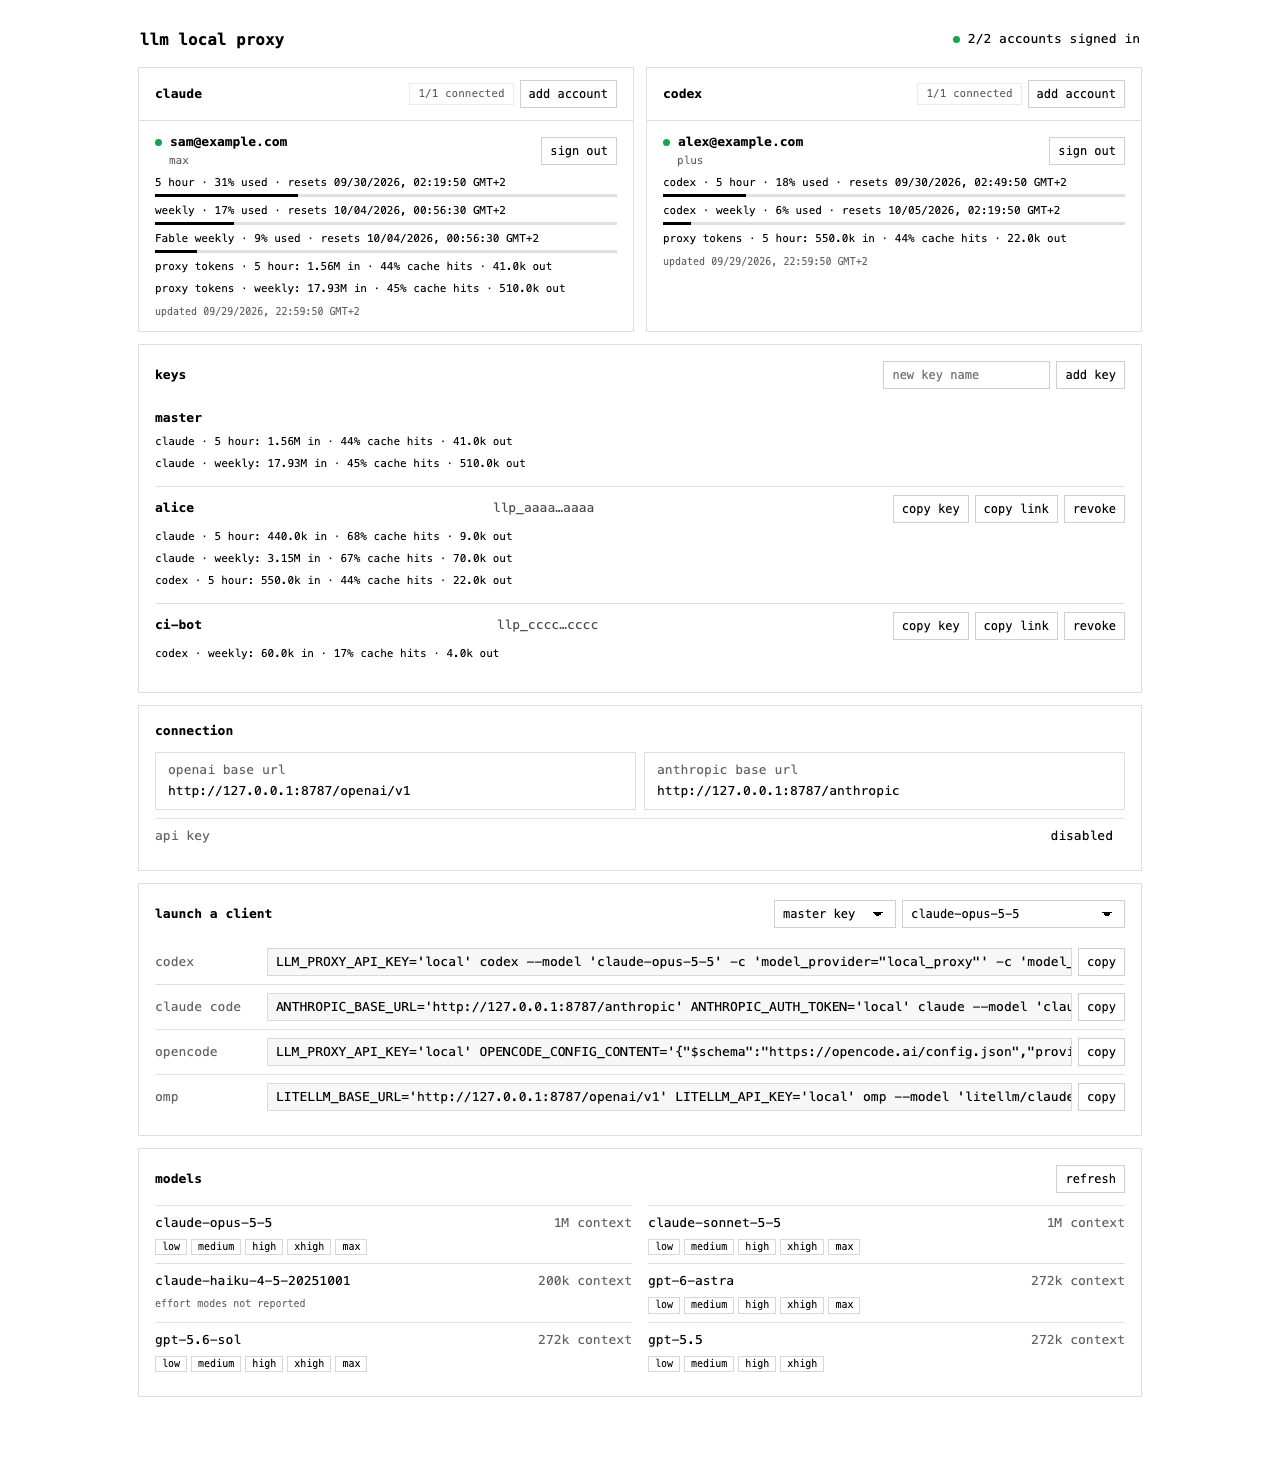
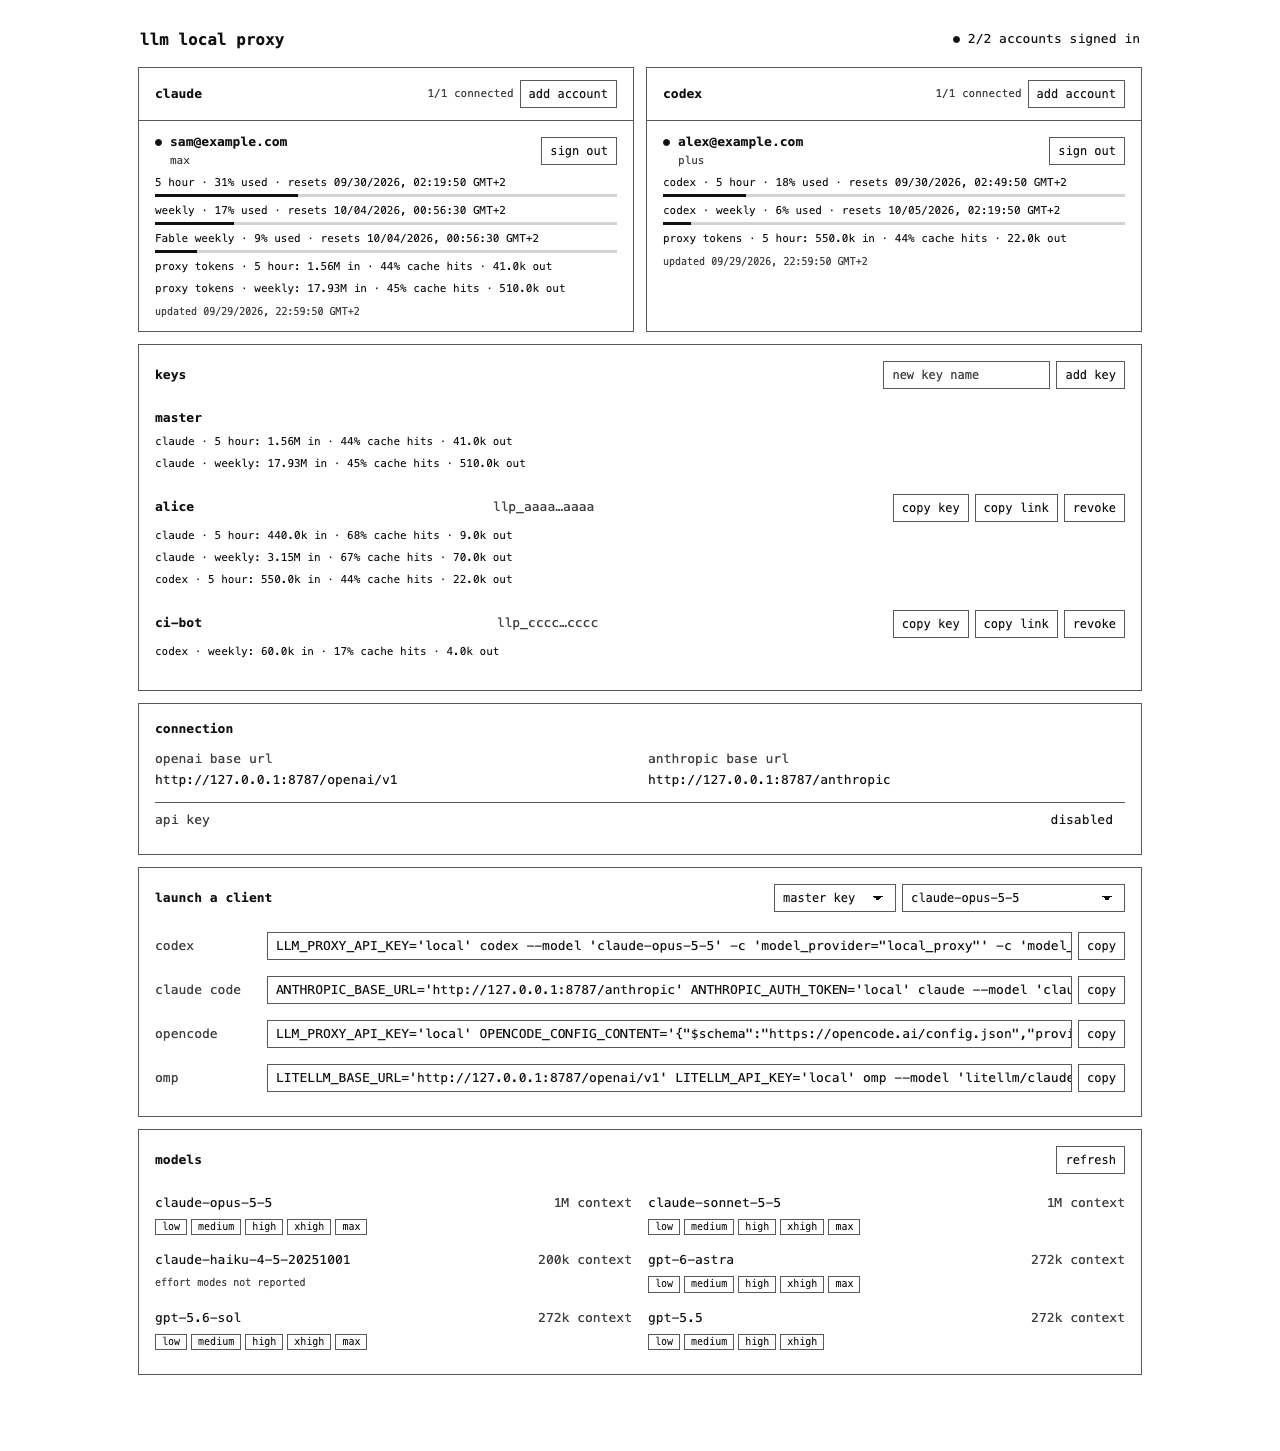
style: high-contrast flat palette, inverted button hover, fewer dividers

diff --git a/src/http/dashboard.html b/src/http/dashboard.html
@@ -24,40 +24,45 @@
     --control-height: 28px;
     --radius: 0;
 
-    --line: #8884;
-    --line-strong: #8886;
-    --line-hover: #888;
-    --fill: #8881;
-    --fill-hover: #8882;
-    --fill-active: #8883;
-    --muted-opacity: .62;
-    --green: #16a34a;
-    --focus: #2563eb;
+    /* Two colours plus one accent; every text and border pair is high contrast. */
+    --fg: #111;
+    --bg: #fff;
+    --muted: #404040;
+    --border: #595959;
+    --track: #d4d4d4;
+    --accent: #0a4fc4;
   }
   @media (prefers-color-scheme: dark) {
-    :root { --focus: #60a5fa; }
+    :root {
+      --fg: #f2f2f2;
+      --bg: #111;
+      --muted: #c4c4c4;
+      --border: #a3a3a3;
+      --track: #404040;
+      --accent: #8ab4ff;
+      }
   }
 
   * { box-sizing: border-box; }
   [hidden] { display: none !important; }
   body.user .master, body:not(.user) .user-only { display: none !important; }
 
-  body { max-width: 1040px; margin: 28px auto; padding: 0 18px 48px; line-height: 1.45; }
+  body { color: var(--fg); background: var(--bg); max-width: 1040px; margin: 28px auto; padding: 0 18px 48px; line-height: 1.45; }
   h1 { font-size: var(--text-lg); margin: 0; }
   h2 { font-size: 13px; margin: 0; }
   code { font: inherit; word-break: break-all; }
-  .muted { opacity: var(--muted-opacity); }
+  .muted { color: var(--muted); }
 
   /* Layout */
   header { display: flex; align-items: center; justify-content: space-between; margin-bottom: var(--space-5); padding: 0 2px; }
   main { display: block; }
-  .panel, .provider { border: 1px solid var(--line); border-radius: var(--radius); overflow: hidden; }
+  .panel, .provider { border: 1px solid var(--border); border-radius: var(--radius); overflow: hidden; }
   .panel { margin-top: var(--space-4); padding: var(--space-5); }
   .section-head, .provider-head, .account-head { display: flex; align-items: center; justify-content: space-between; gap: var(--space-4); }
   .section-head { flex-wrap: wrap; margin-bottom: var(--space-4); }
   .controls, .button-group { display: flex; align-items: center; gap: var(--space-2); }
   .controls { flex-wrap: wrap; justify-content: flex-end; min-width: 0; }
-  .row { display: flex; gap: var(--space-4); justify-content: space-between; border-top: 1px solid var(--line); padding: var(--space-3) 0; }
+  .row { display: flex; gap: var(--space-4); justify-content: space-between; border-top: 1px solid var(--border); padding: var(--space-3) 0; }
 
   /* Controls: buttons, selects and text inputs share height, border, padding and font. */
   button, select, input {
@@ -66,17 +71,18 @@
     font: inherit;
     font-size: var(--text-md);
     line-height: 1;
-    color: inherit;
-    background-color: transparent;
-    border: 1px solid var(--line-strong);
+    color: var(--fg);
+    background-color: var(--bg);
+    border: 1px solid var(--border);
     border-radius: var(--radius);
   }
   button { flex: none; cursor: pointer; white-space: nowrap; }
-  button:hover, select:hover { background-color: var(--fill-hover); border-color: var(--line-hover); }
-  button:active { background-color: var(--fill-active); }
-  button:disabled, select:disabled { opacity: .5; cursor: default; background-color: transparent; border-color: var(--line-strong); }
-  button:focus-visible, select:focus-visible, input:focus-visible { outline: 2px solid var(--focus); outline-offset: 1px; }
+  button:hover, button:active { color: var(--bg); background-color: var(--fg); border-color: var(--fg); }
+  select:hover { border-color: var(--fg); }
+  button:disabled, select:disabled { opacity: .5; cursor: default; color: var(--fg); background-color: var(--bg); border-color: var(--border); }
+  button:focus-visible, select:focus-visible, input:focus-visible { outline: 2px solid var(--accent); outline-offset: 2px; }
   input { flex: 1; min-width: 0; }
+  input::placeholder { color: var(--muted); opacity: 1; }
   select {
     appearance: none;
     max-width: 100%;
@@ -84,7 +90,7 @@
     padding-right: calc(var(--space-3) * 4);
     cursor: pointer;
     text-overflow: ellipsis;
-    /* Chevron drawn with currentColor, so it follows the text colour in light and dark. */
+    /* The page's CSP forbids data: images, so the chevron is drawn with currentColor gradients. */
     background-image:
       linear-gradient(45deg, transparent 50%, currentColor 50%),
       linear-gradient(135deg, currentColor 50%, transparent 50%);
@@ -92,42 +98,42 @@
     background-position: calc(100% - 17px) 50%, calc(100% - 12px) 50%;
     background-repeat: no-repeat;
   }
-  select option { color: CanvasText; background: Canvas; }
+  select option { color: var(--fg); background: var(--bg); }
   #command-key { max-width: 14em; }
   #command-model { max-width: 22em; }
 
   /* Scrollable command lines: thin scrollbar so it does not dominate the box. */
-  .command code, .login-url { scrollbar-width: thin; scrollbar-color: var(--line-strong) transparent; }
+  .command code, .login-url { scrollbar-width: thin; scrollbar-color: var(--border) var(--bg); }
   .command code::-webkit-scrollbar { height: 6px; }
-  .command code::-webkit-scrollbar-thumb { background: var(--line-strong); }
+  .command code::-webkit-scrollbar-thumb { background: var(--border); }
 
   /* Status */
-  .dot, .account-dot { display: inline-block; width: 7px; height: 7px; border-radius: 50%; background: #888; margin-right: var(--space-3); }
-  .dot.on, .account-slot.signed .account-dot { background: var(--green); }
-  .spin { display: none; width: 9px; height: 9px; border: 2px solid #8885; border-top-color: currentColor; border-radius: 50%; margin-right: var(--space-3); animation: spin .7s linear infinite; }
+  .dot, .account-dot { display: inline-block; width: 7px; height: 7px; border-radius: 50%; background: transparent; border: 1px solid var(--fg); margin-right: var(--space-3); }
+  .dot.on, .account-slot.signed .account-dot { background: var(--fg); }
+  .spin { display: none; width: 9px; height: 9px; border: 2px solid var(--track); border-top-color: currentColor; border-radius: 50%; margin-right: var(--space-3); animation: spin .7s linear infinite; }
   body.loading .spin { display: inline-block; }
   body.loading .dot { display: none; }
 
   /* Providers and accounts */
   #providers { display: grid; grid-template-columns: repeat(2, minmax(0, 1fr)); gap: var(--space-4); }
   .provider { display: flex; flex-direction: column; }
-  .provider-head { padding: var(--space-4) var(--space-5); border-bottom: 1px solid var(--line); }
+  .provider-head { padding: var(--space-4) var(--space-5); border-bottom: 1px solid var(--border); }
   .provider-controls, .account-controls { display: flex; align-items: center; gap: var(--space-2); }
-  .summary { font-size: var(--text-sm); border: 1px solid var(--line); padding: 2px var(--space-3); white-space: nowrap; }
+  .summary { font-size: var(--text-sm); white-space: nowrap; }
   .accounts { display: flex; flex: 1; flex-direction: column; }
   .account-slot { padding: var(--space-4) var(--space-5); }
-  .account-slot + .account-slot { border-top: 1px solid var(--line); }
+  .account-slot + .account-slot { border-top: 1px solid var(--border); }
   .account-slot:last-child { flex: 1; }
   .account-slot:not(.signed):last-child { display: flex; flex-direction: column; }
   .account-slot:not(.signed):last-child > .actions { margin-top: auto; }
   .identity { min-width: 0; }
   .account-name { display: block; overflow: hidden; text-overflow: ellipsis; white-space: nowrap; }
-  .account-meta { display: block; margin: 1px 0 0 14px; font-size: var(--text-sm); opacity: var(--muted-opacity); }
+  .account-meta { display: block; margin: 1px 0 0 15px; font-size: var(--text-sm); color: var(--muted); }
   .actions { display: flex; align-items: center; justify-content: space-between; gap: var(--space-3); margin-top: var(--space-3); }
   .stamp { font-size: var(--text-xs); }
   .usage:empty { display: none; }
   .limit { margin: var(--space-2) 0; font-size: var(--text-sm); }
-  .bar { height: 3px; background: var(--line); margin-top: 3px; }
+  .bar { height: 3px; background: var(--track); margin-top: 3px; }
   .bar i { display: block; height: 100%; background: currentColor; }
   .login { margin-top: var(--space-3); }
   .login .row { align-items: flex-start; }
@@ -139,22 +145,21 @@
 
   /* Keys */
   .keys-add { display: flex; gap: var(--space-2); }
-  .key-item { border-top: 1px solid var(--line); padding: var(--space-3) 0; }
-  .key-item:first-child { border-top: 0; }
+  .key-item { padding: var(--space-3) 0; }
   .key-head { display: flex; flex-wrap: wrap; align-items: center; justify-content: space-between; gap: var(--space-3) var(--space-4); }
-  .key-head code { opacity: .7; }
+  .key-head code { color: var(--muted); }
   .key-actions { display: flex; gap: var(--space-2); }
 
   /* Connection */
-  #clients { display: grid; grid-template-columns: repeat(2, minmax(0, 1fr)); gap: var(--space-3); }
-  #clients .row { display: block; border: 1px solid var(--line); padding: var(--space-3) var(--space-4); }
+  #clients { display: grid; grid-template-columns: repeat(2, minmax(0, 1fr)); gap: var(--space-3) var(--space-5); }
+  #clients .row { display: block; border: 0; padding: 0; }
   #clients code { display: block; margin-top: 2px; }
-  .key-row { flex-wrap: wrap; align-items: center; margin-top: var(--space-3); }
+  .key-row { flex-wrap: wrap; align-items: center; margin-top: var(--space-4); }
   .key-row code { margin-left: auto; min-width: 0; }
 
   /* Launch a client: label, then the command line with its copy button beside it. */
   .command { display: grid; grid-template-columns: 100px minmax(0, 1fr); align-items: start; gap: var(--space-4); padding: var(--space-3) 0; }
-  .command:first-child { border-top: 0; }
+  .command, .model { border-top: 0; }
   .command > .muted { line-height: var(--control-height); }
   .command-code { display: flex; align-items: flex-start; gap: var(--space-2); min-width: 0; }
   .command code {
@@ -165,24 +170,23 @@
     line-height: calc(var(--control-height) - 2px);
     white-space: pre;
     word-break: normal;
-    background: var(--fill);
-    border: 1px solid var(--line);
+    border: 1px solid var(--border);
     border-radius: var(--radius);
   }
 
   /* Models */
   #models { display: grid; grid-template-columns: repeat(2, minmax(0, 1fr)); gap: 0 var(--space-5); }
-  .model { padding: var(--space-3) 0; border-top: 1px solid var(--line); }
+  .model { padding: var(--space-3) 0; }
   .model-main { display: flex; align-items: baseline; justify-content: space-between; gap: var(--space-4); }
   .model-context { white-space: nowrap; }
   .efforts { display: flex; flex-wrap: wrap; gap: var(--space-1); margin-top: var(--space-2); }
-  .effort { border: 1px solid #8885; padding: 0 var(--space-2); font-size: var(--text-xs); }
-  .efforts-empty { opacity: var(--muted-opacity); font-size: var(--text-xs); }
+  .effort { border: 1px solid var(--border); padding: 0 var(--space-2); font-size: var(--text-xs); }
+  .efforts-empty { color: var(--muted); font-size: var(--text-xs); }
 
   /* Loading skeletons */
-  .skeleton-line, .skeleton-code, .skeleton-button { display: block; background: linear-gradient(90deg, #8881 25%, #8883 50%, #8881 75%); background-size: 200% 100%; animation: shimmer 1.4s ease-in-out infinite; }
+  .skeleton-line, .skeleton-code, .skeleton-button { display: block; background: var(--track); animation: pulse 1.4s ease-in-out infinite; }
   .skeleton-line { height: 9px; }
-  .skeleton-button { width: 48px; height: var(--control-height); border: 1px solid var(--line); }
+  .skeleton-button { width: 48px; height: var(--control-height); }
   .skeleton-code { display: flex; justify-content: flex-end; flex: 1; height: var(--control-height); }
   .skeleton-provider .provider-head { height: calc(var(--control-height) + 2 * var(--space-4) + 1px); }
   .skeleton-provider .account-slot { min-height: 76px; }
@@ -204,7 +208,7 @@
     .skeleton-line, .skeleton-code, .skeleton-button { animation: none; }
   }
   @keyframes spin { to { transform: rotate(360deg); } }
-  @keyframes shimmer { to { background-position: -200% 0; } }
+  @keyframes pulse { 50% { opacity: .45; } }
 </style>
 <header><h1>llm local proxy</h1><span><i class="spin"></i><i id="dot" class="dot"></i><span id="state" role="status">loading</span></span></header>
 <form id="unlock" class="panel" hidden>
